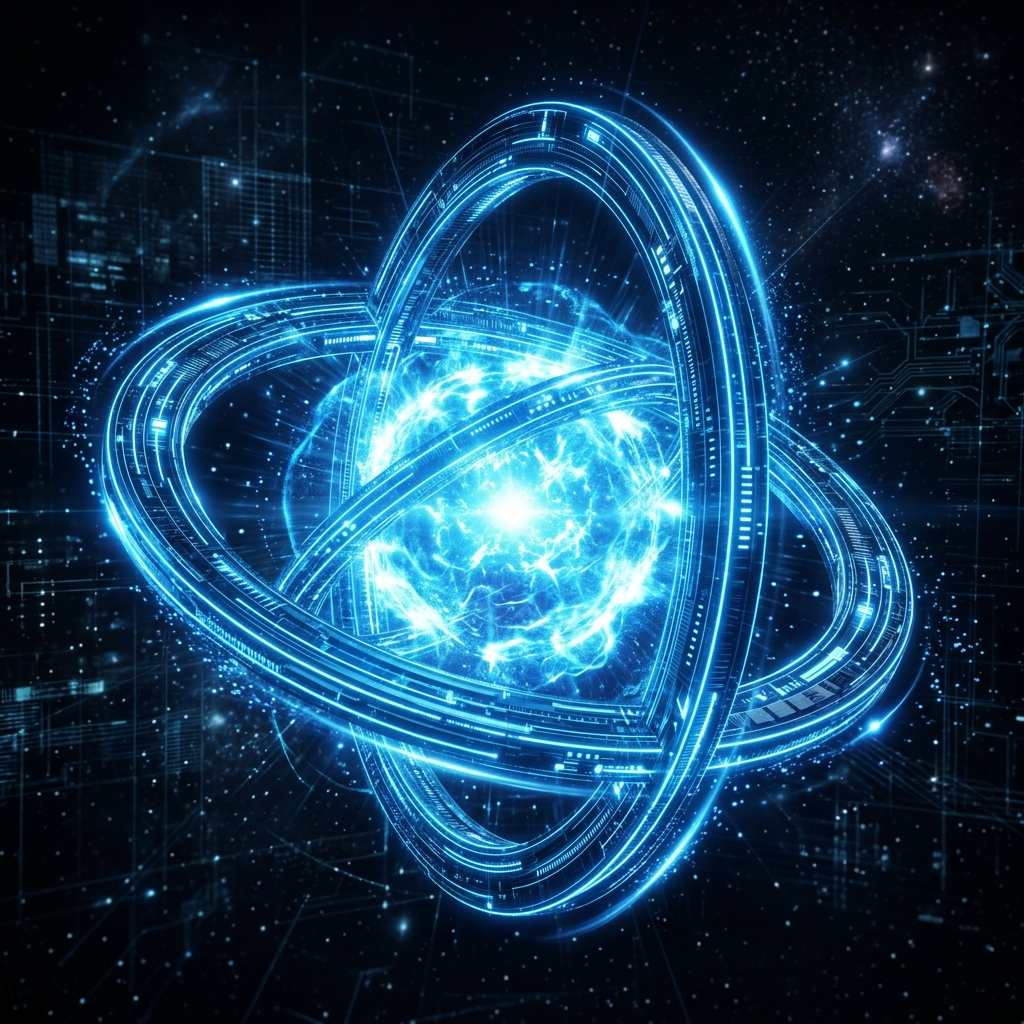
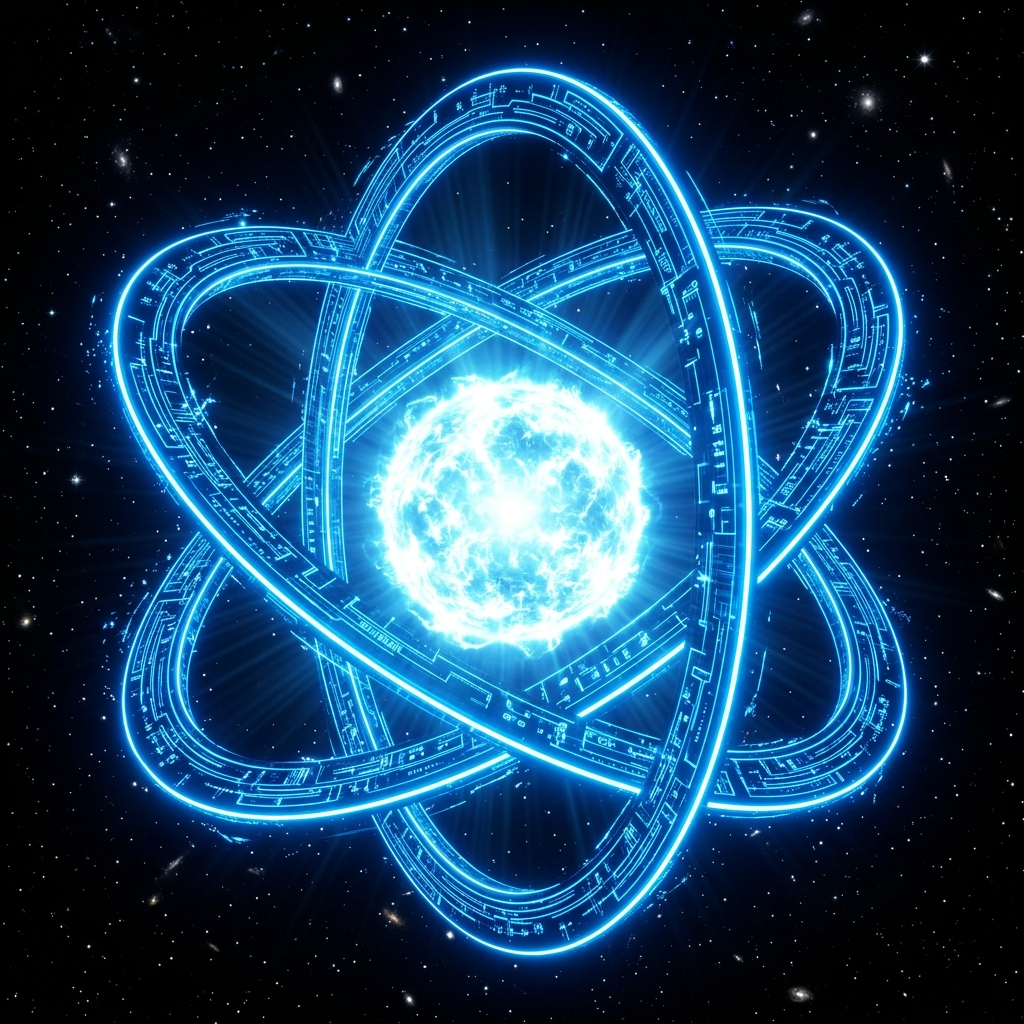
fix: Smaller sharper HD quantum rings image

diff --git a/client/src/pages/Landing.jsx b/client/src/pages/Landing.jsx
@@ -39,10 +39,13 @@ export default function Landing() {
       {/* HERO WITH 3D WEBGL SHIELD */}
       <section className="hero" id="hero" style={{ position: 'relative', minHeight: '100vh', display: 'flex', alignItems: 'center' }}>
         
-        {/* High-fidelity Quantum Rings visual exactly matching the concept art */}
+        {/* High-fidelity Quantum Rings visual */}
         <div style={{
           position: 'absolute',
-          inset: 0,
+          top: 0,
+          right: 0,
+          bottom: 0,
+          width: '55%',
           zIndex: 0,
           display: 'flex',
           alignItems: 'center',
@@ -52,24 +55,25 @@ export default function Landing() {
         }}>
            <style>{`
              @keyframes floatCore {
-               0% { transform: translateY(0px) scale(1); filter: brightness(1); }
-               50% { transform: translateY(-30px) scale(1.02); filter: brightness(1.2) drop-shadow(0 0 50px rgba(96, 165, 250, 0.4)); }
-               100% { transform: translateY(0px) scale(1); filter: brightness(1); }
+               0% { transform: translateY(0px) scale(1); }
+               50% { transform: translateY(-20px) scale(1.03); filter: drop-shadow(0 0 60px rgba(96, 165, 250, 0.5)); }
+               100% { transform: translateY(0px) scale(1); }
              }
            `}</style>
            <img 
              src="/quantum_rings.png" 
              alt="Quantum Energy Core" 
              style={{
-               width: '100%',
-               height: '100%',
-               objectFit: 'cover',
-               objectPosition: 'center',
-               opacity: 0.8,
+               width: '90%',
+               height: 'auto',
+               maxWidth: '600px',
+               objectFit: 'contain',
+               opacity: 0.9,
                mixBlendMode: 'screen',
                animation: 'floatCore 8s ease-in-out infinite',
-               maskImage: 'radial-gradient(ellipse at center, rgba(0,0,0,1) 40%, rgba(0,0,0,0) 80%)',
-               WebkitMaskImage: 'radial-gradient(ellipse at center, rgba(0,0,0,1) 40%, rgba(0,0,0,0) 80%)'
+               imageRendering: 'auto',
+               maskImage: 'radial-gradient(ellipse at center, rgba(0,0,0,1) 50%, rgba(0,0,0,0) 85%)',
+               WebkitMaskImage: 'radial-gradient(ellipse at center, rgba(0,0,0,1) 50%, rgba(0,0,0,0) 85%)'
              }}
            />
         </div>